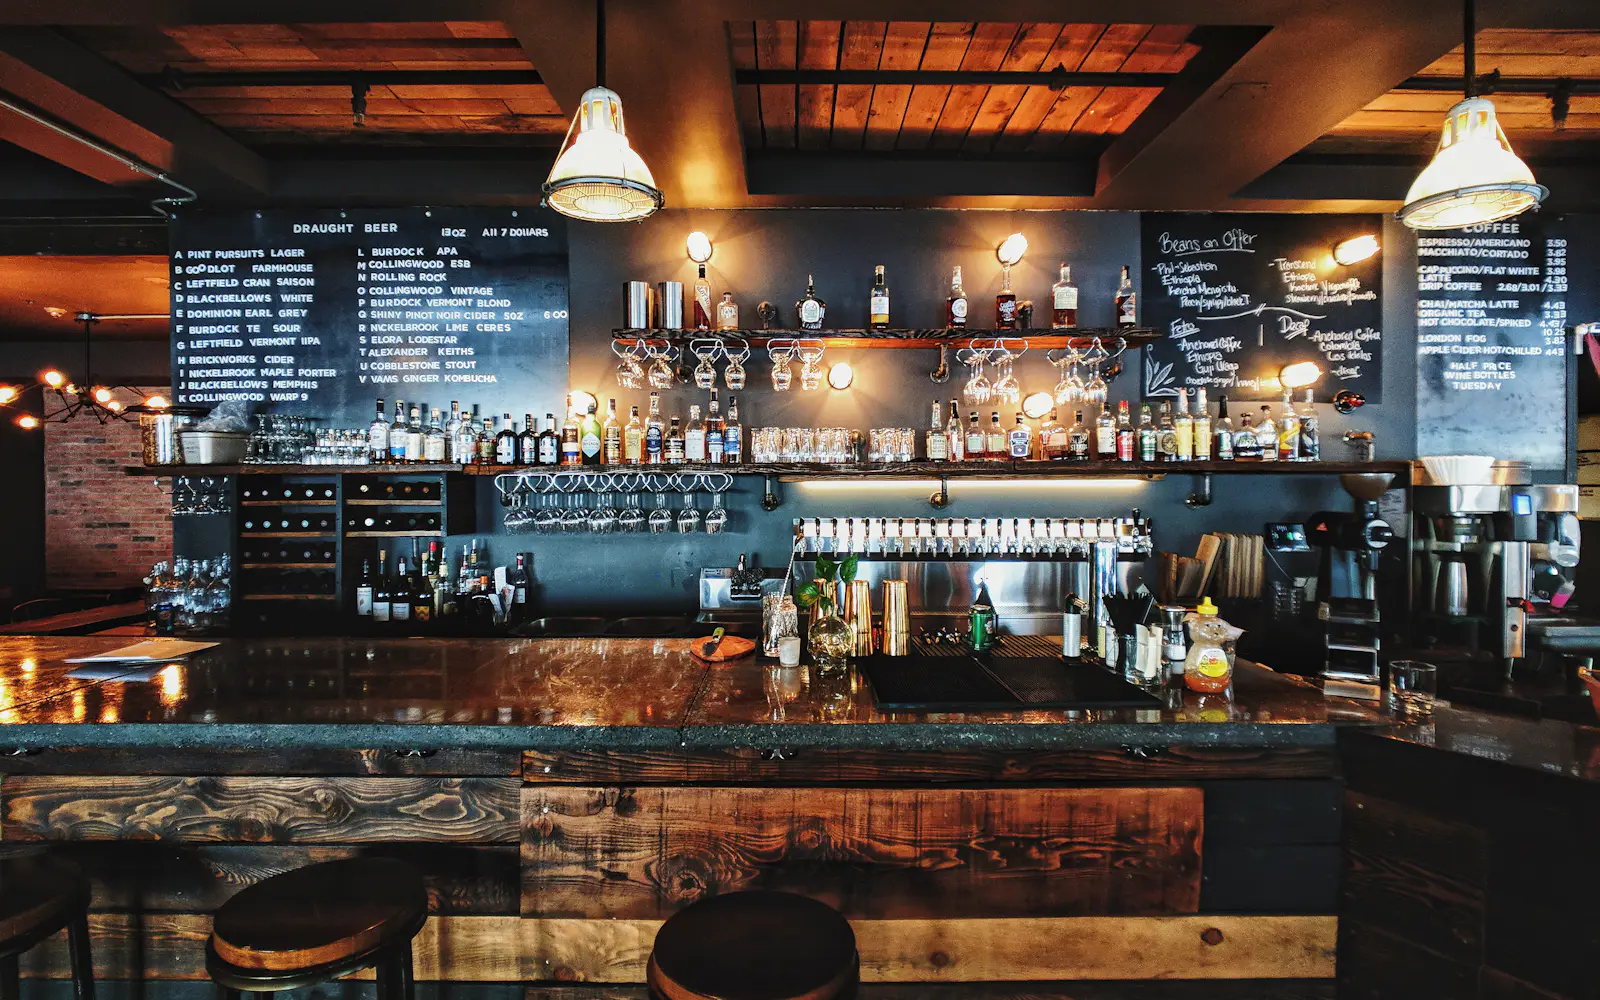
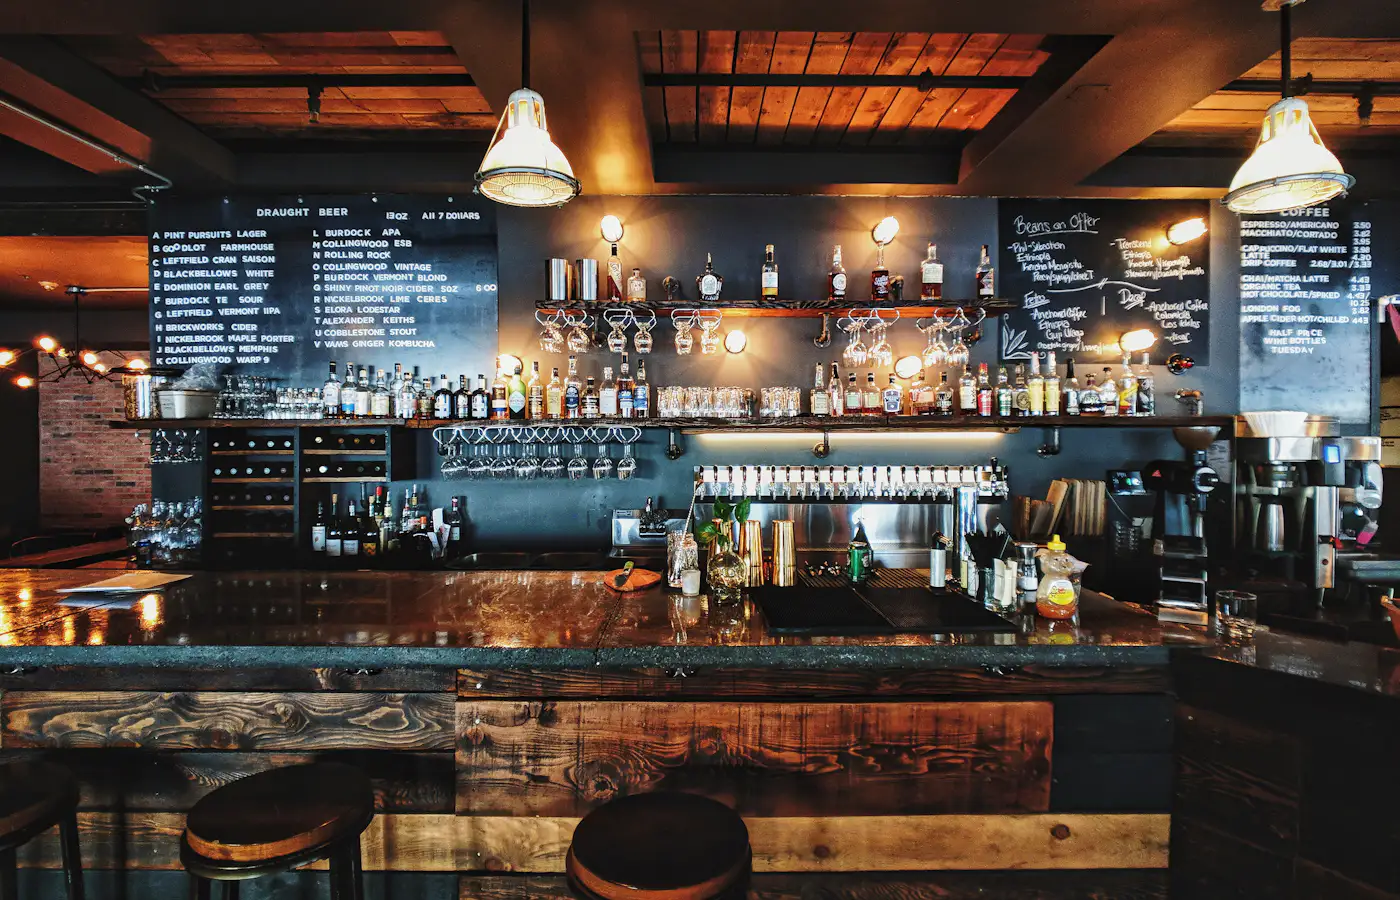
Site: uma foto diferente por seção (sem repetição), fundo animado e brasas nos Três caminhos
Fotos novas: Unsplash (licença Unsplash).

diff --git a/docs/index.html b/docs/index.html
@@ -462,6 +462,7 @@ html.js .revela.visto{opacity:1;translate:0 0}
 
 /* Fechamento com foto e brasas */
 .closing{padding-block:clamp(90px,12vw,160px)}
+.closing .sec-foto::after{background:linear-gradient(90deg,rgba(26,22,18,.94) 0%,rgba(26,22,18,.78) 45%,rgba(26,22,18,.35) 100%),linear-gradient(180deg,#1A1612 0%,transparent 25%,transparent 75%,#1A1612 100%)}
 .closing h2 em{color:#FF7A2E;text-shadow:0 0 18px rgba(255,107,44,.7),0 0 46px rgba(255,107,44,.4)}
 
 /* Protótipo com halo */
@@ -596,7 +597,16 @@ main>section .sec-head>*,.follow span,.follow strong,.quote-big,.pain-list li,.c
 .stack span{background:#100E0D!important;color:#E9E1D9!important;border:1px solid rgba(255,107,44,.35)!important;border-radius:999px!important;padding:7px 14px!important;box-shadow:0 0 12px -4px rgba(255,107,44,.6),inset 0 1px 0 rgba(255,255,255,.05);transition:all .3s ease}
 .stack span:hover{border-color:#FF8A45!important;box-shadow:0 0 18px -2px rgba(255,107,44,.9)}
 
+/* Três caminhos: zoom com leve deslocamento e brilho atrás do card recomendado */
+@keyframes slowPanZoom{from{transform:scale(1) translate(0,0)}to{transform:scale(1.1) translate(-2%,-1.5%)}}
+@media (prefers-reduced-motion:no-preference) and (min-width:961px){.sec-foto.pan.on::before{animation:slowPanZoom 22s ease-in-out infinite alternate}}
+#investimento .sec-foto::after{background:radial-gradient(circle at 25% 45%,rgba(255,107,44,.18),transparent 60%),radial-gradient(ellipse at 50% 50%,transparent 55%,rgba(26,22,18,.45) 100%),linear-gradient(180deg,#1A1612 0%,rgba(26,22,18,.3) 25%,rgba(26,22,18,.3) 75%,#1A1612 100%)}
+.inv article:not(.rec){background:rgba(20,18,16,.72)!important}
+.stack span{background:rgba(20,18,16,.72)!important;backdrop-filter:blur(14px);-webkit-backdrop-filter:blur(14px)}
+
 /* ===== Jurídico: 3 colunas com ícones ===== */
+.legal p:not(.eyebrow){color:#DDD5CD}
+.legal p,.legal h3,.stack span{text-shadow:0 1px 2px rgba(0,0,0,.9),0 2px 12px rgba(0,0,0,.8)}
 .legal{gap:22px;margin-top:56px;padding-top:36px;border-top:1px solid rgba(255,107,44,.15)}
 .legal article{grid-template-columns:auto 1fr;column-gap:16px;align-items:start;padding:20px;border-radius:var(--r);border:1px solid transparent;transition:all .3s ease}
 .legal article:hover{border-color:rgba(255,107,44,.3);background:rgba(24,22,20,.6)}
@@ -680,7 +690,7 @@ html .ast-form button{background:var(--orange);color:#140A03}
 
 <!-- PROBLEMA -->
 <section id="problema">
-  <div class="sec-foto" style="--op:.4;--foto:url(img/salao-bar.webp)" aria-hidden="true"></div>
+  <div class="sec-foto" style="--op:.5;--foto:url(img/salao-lotado.webp)" aria-hidden="true"></div>
   <div class="wrap problem-grid">
     <div style="display:grid;gap:24px">
       <p class="eyebrow">O problema</p>
@@ -707,7 +717,7 @@ html .ast-form button{background:var(--orange);color:#140A03}
 
 <!-- IDENTIDADE -->
 <section class="dark">
-  <div class="sec-foto" style="--op:.4;--foto:url(img/salao-bar.webp);--pos:center 70%" aria-hidden="true"></div>
+  <div class="sec-foto" style="--foto:url(img/restaurante-escada.webp);--pos:center 40%" aria-hidden="true"></div>
   <div class="wrap">
     <div class="sec-head">
       <p class="eyebrow">Identidade organizacional</p>
@@ -830,7 +840,7 @@ html .ast-form button{background:var(--orange);color:#140A03}
 
 <!-- JORNADA -->
 <section class="tint">
-  <div class="sec-foto" style="--foto:url(img/hero-cozinha.webp);--pos:center 20%" aria-hidden="true"></div>
+  <div class="sec-foto" style="--foto:url(img/brigada.webp);--pos:center 40%" aria-hidden="true"></div>
   <div class="wrap">
     <div class="sec-head">
       <p class="eyebrow">Chef's Match RH</p>
@@ -872,7 +882,7 @@ html .ast-form button{background:var(--orange);color:#140A03}
 
 <!-- MODELO DE NEGÓCIO -->
 <section id="negocio">
-  <div class="sec-foto" style="--foto:url(img/pratos.webp);--pos:center 30%" aria-hidden="true"></div>
+  <div class="sec-foto" style="--foto:url(img/restaurante-noite.webp);--pos:center 50%" aria-hidden="true"></div>
   <div class="wrap">
     <div class="sec-head">
       <p class="eyebrow">Modelo de negócio</p>
@@ -965,7 +975,7 @@ html .ast-form button{background:var(--orange);color:#140A03}
 
 <!-- FINANÇAS -->
 <section id="financas" class="dark">
-  <div class="sec-foto" style="--foto:url(img/chef-lampadas.webp);--pos:center 4%" aria-hidden="true"></div>
+  <div class="sec-foto" style="--foto:url(img/chef-empratando.webp);--pos:center 50%" aria-hidden="true"></div>
   <div class="wrap">
     <div class="sec-head">
       <p class="eyebrow">Projeção financeira</p>
@@ -1014,7 +1024,7 @@ html .ast-form button{background:var(--orange);color:#140A03}
 
 <!-- IMPLANTAÇÃO -->
 <section id="roadmap" class="dark" style="border-top:1px solid var(--line-d)">
-  <div class="sec-foto" style="--foto:url(img/hero-cozinha.webp);--pos:center 30%" aria-hidden="true"></div>
+  <div class="sec-foto" style="--foto:url(img/chef-flambe.webp);--pos:center 40%" aria-hidden="true"></div>
   <canvas class="faiscas" data-quantidade="20" aria-hidden="true"></canvas>
   <div class="wrap">
     <div class="sec-head">
@@ -1044,7 +1054,9 @@ html .ast-form button{background:var(--orange);color:#140A03}
 </section>
 
 <!-- INVESTIMENTO E JURÍDICO -->
-<section>
+<section id="investimento">
+  <div class="sec-foto pan" style="--op:.42;--foto:url(img/empratamento.webp);--pos:center 45%" aria-hidden="true"></div>
+  <canvas class="faiscas" data-quantidade="15" aria-hidden="true"></canvas>
   <div class="wrap">
     <div class="sec-head">
       <p class="eyebrow">Investimento inicial</p>
@@ -1067,7 +1079,7 @@ html .ast-form button{background:var(--orange);color:#140A03}
 
 <!-- FECHAMENTO -->
 <section class="dark closing">
-  <div class="sec-foto forte" style="--foto:url(img/hero-cozinha.webp)" aria-hidden="true"></div>
+  <div class="sec-foto" style="--op:.45;--foto:url(img/mesa-amigos.webp);--pos:center 40%" aria-hidden="true"></div>
   <canvas class="faiscas" data-quantidade="30" aria-hidden="true"></canvas>
   <div class="wrap" style="display:grid;gap:28px">
     <p class="eyebrow">Talentos · Fornecedores · Capacitação · Negócios</p>

diff --git a/index.html b/index.html
@@ -458,6 +458,7 @@ html.js .revela.visto{opacity:1;translate:0 0}
 
 /* Fechamento com foto e brasas */
 .closing{padding-block:clamp(90px,12vw,160px)}
+.closing .sec-foto::after{background:linear-gradient(90deg,rgba(26,22,18,.94) 0%,rgba(26,22,18,.78) 45%,rgba(26,22,18,.35) 100%),linear-gradient(180deg,#1A1612 0%,transparent 25%,transparent 75%,#1A1612 100%)}
 .closing h2 em{color:#FF7A2E;text-shadow:0 0 18px rgba(255,107,44,.7),0 0 46px rgba(255,107,44,.4)}
 
 /* Protótipo com halo */
@@ -592,7 +593,16 @@ main>section .sec-head>*,.follow span,.follow strong,.quote-big,.pain-list li,.c
 .stack span{background:#100E0D!important;color:#E9E1D9!important;border:1px solid rgba(255,107,44,.35)!important;border-radius:999px!important;padding:7px 14px!important;box-shadow:0 0 12px -4px rgba(255,107,44,.6),inset 0 1px 0 rgba(255,255,255,.05);transition:all .3s ease}
 .stack span:hover{border-color:#FF8A45!important;box-shadow:0 0 18px -2px rgba(255,107,44,.9)}
 
+/* Três caminhos: zoom com leve deslocamento e brilho atrás do card recomendado */
+@keyframes slowPanZoom{from{transform:scale(1) translate(0,0)}to{transform:scale(1.1) translate(-2%,-1.5%)}}
+@media (prefers-reduced-motion:no-preference) and (min-width:961px){.sec-foto.pan.on::before{animation:slowPanZoom 22s ease-in-out infinite alternate}}
+#investimento .sec-foto::after{background:radial-gradient(circle at 25% 45%,rgba(255,107,44,.18),transparent 60%),radial-gradient(ellipse at 50% 50%,transparent 55%,rgba(26,22,18,.45) 100%),linear-gradient(180deg,#1A1612 0%,rgba(26,22,18,.3) 25%,rgba(26,22,18,.3) 75%,#1A1612 100%)}
+.inv article:not(.rec){background:rgba(20,18,16,.72)!important}
+.stack span{background:rgba(20,18,16,.72)!important;backdrop-filter:blur(14px);-webkit-backdrop-filter:blur(14px)}
+
 /* ===== Jurídico: 3 colunas com ícones ===== */
+.legal p:not(.eyebrow){color:#DDD5CD}
+.legal p,.legal h3,.stack span{text-shadow:0 1px 2px rgba(0,0,0,.9),0 2px 12px rgba(0,0,0,.8)}
 .legal{gap:22px;margin-top:56px;padding-top:36px;border-top:1px solid rgba(255,107,44,.15)}
 .legal article{grid-template-columns:auto 1fr;column-gap:16px;align-items:start;padding:20px;border-radius:var(--r);border:1px solid transparent;transition:all .3s ease}
 .legal article:hover{border-color:rgba(255,107,44,.3);background:rgba(24,22,20,.6)}
@@ -676,7 +686,7 @@ html .ast-form button{background:var(--orange);color:#140A03}
 
 <!-- PROBLEMA -->
 <section id="problema">
-  <div class="sec-foto" style="--op:.4;--foto:url(img/salao-bar.webp)" aria-hidden="true"></div>
+  <div class="sec-foto" style="--op:.5;--foto:url(img/salao-lotado.webp)" aria-hidden="true"></div>
   <div class="wrap problem-grid">
     <div style="display:grid;gap:24px">
       <p class="eyebrow">O problema</p>
@@ -703,7 +713,7 @@ html .ast-form button{background:var(--orange);color:#140A03}
 
 <!-- IDENTIDADE -->
 <section class="dark">
-  <div class="sec-foto" style="--op:.4;--foto:url(img/salao-bar.webp);--pos:center 70%" aria-hidden="true"></div>
+  <div class="sec-foto" style="--foto:url(img/restaurante-escada.webp);--pos:center 40%" aria-hidden="true"></div>
   <div class="wrap">
     <div class="sec-head">
       <p class="eyebrow">Identidade organizacional</p>
@@ -826,7 +836,7 @@ html .ast-form button{background:var(--orange);color:#140A03}
 
 <!-- JORNADA -->
 <section class="tint">
-  <div class="sec-foto" style="--foto:url(img/hero-cozinha.webp);--pos:center 20%" aria-hidden="true"></div>
+  <div class="sec-foto" style="--foto:url(img/brigada.webp);--pos:center 40%" aria-hidden="true"></div>
   <div class="wrap">
     <div class="sec-head">
       <p class="eyebrow">Chef's Match RH</p>
@@ -868,7 +878,7 @@ html .ast-form button{background:var(--orange);color:#140A03}
 
 <!-- MODELO DE NEGÓCIO -->
 <section id="negocio">
-  <div class="sec-foto" style="--foto:url(img/pratos.webp);--pos:center 30%" aria-hidden="true"></div>
+  <div class="sec-foto" style="--foto:url(img/restaurante-noite.webp);--pos:center 50%" aria-hidden="true"></div>
   <div class="wrap">
     <div class="sec-head">
       <p class="eyebrow">Modelo de negócio</p>
@@ -961,7 +971,7 @@ html .ast-form button{background:var(--orange);color:#140A03}
 
 <!-- FINANÇAS -->
 <section id="financas" class="dark">
-  <div class="sec-foto" style="--foto:url(img/chef-lampadas.webp);--pos:center 4%" aria-hidden="true"></div>
+  <div class="sec-foto" style="--foto:url(img/chef-empratando.webp);--pos:center 50%" aria-hidden="true"></div>
   <div class="wrap">
     <div class="sec-head">
       <p class="eyebrow">Projeção financeira</p>
@@ -1010,7 +1020,7 @@ html .ast-form button{background:var(--orange);color:#140A03}
 
 <!-- IMPLANTAÇÃO -->
 <section id="roadmap" class="dark" style="border-top:1px solid var(--line-d)">
-  <div class="sec-foto" style="--foto:url(img/hero-cozinha.webp);--pos:center 30%" aria-hidden="true"></div>
+  <div class="sec-foto" style="--foto:url(img/chef-flambe.webp);--pos:center 40%" aria-hidden="true"></div>
   <canvas class="faiscas" data-quantidade="20" aria-hidden="true"></canvas>
   <div class="wrap">
     <div class="sec-head">
@@ -1040,7 +1050,9 @@ html .ast-form button{background:var(--orange);color:#140A03}
 </section>
 
 <!-- INVESTIMENTO E JURÍDICO -->
-<section>
+<section id="investimento">
+  <div class="sec-foto pan" style="--op:.42;--foto:url(img/empratamento.webp);--pos:center 45%" aria-hidden="true"></div>
+  <canvas class="faiscas" data-quantidade="15" aria-hidden="true"></canvas>
   <div class="wrap">
     <div class="sec-head">
       <p class="eyebrow">Investimento inicial</p>
@@ -1063,7 +1075,7 @@ html .ast-form button{background:var(--orange);color:#140A03}
 
 <!-- FECHAMENTO -->
 <section class="dark closing">
-  <div class="sec-foto forte" style="--foto:url(img/hero-cozinha.webp)" aria-hidden="true"></div>
+  <div class="sec-foto" style="--op:.45;--foto:url(img/mesa-amigos.webp);--pos:center 40%" aria-hidden="true"></div>
   <canvas class="faiscas" data-quantidade="30" aria-hidden="true"></canvas>
   <div class="wrap" style="display:grid;gap:28px">
     <p class="eyebrow">Talentos · Fornecedores · Capacitação · Negócios</p>
